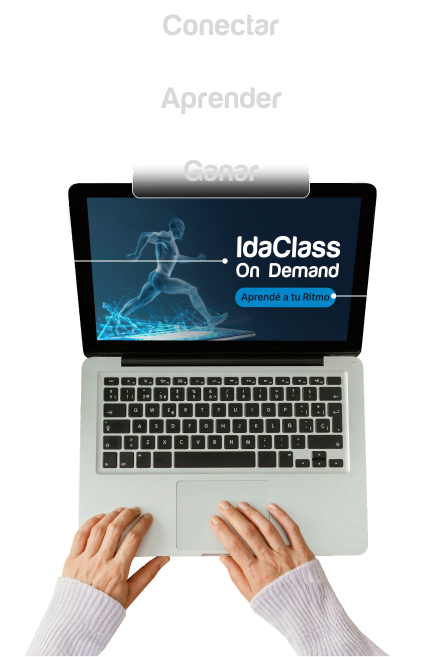
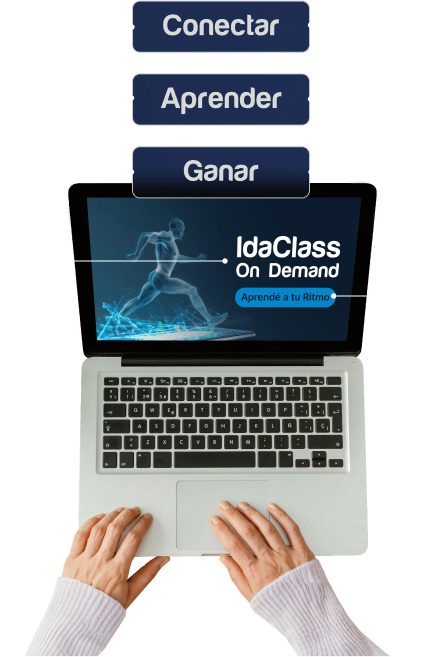
estilos mobile

Changed region(s): [[0.2982, 0.0, 0.7156, 0.3044]]

diff --git a/app/cursos/[nombre]/_components/cursoOnDemandObjetivos.jsx b/app/cursos/[nombre]/_components/cursoOnDemandObjetivos.jsx
@@ -17,7 +17,7 @@ const CursoOnDemandObjetivos = () => {
         <Image
           src={bgMobile}
           fill
-          className="w-full h-full object-cover object-left -z-10 lg:hidden"
+          className="w-full h-full object-cover object-left-top -z-10 lg:hidden"
           alt="background"
         />
         <Image
@@ -25,9 +25,9 @@ const CursoOnDemandObjetivos = () => {
           height={5000}
           width={5000}
           alt=""
-          className="w-full object-contain -translate-y-6 lg:w-[45%]"
+          className="w-full object-contain lg:w-[45%]"
         />
-        <article className="container text-white pb-8 px-4">
+        <article className="container text-white pb-8 px-4 max-lg:mt-24">
           <h3
             className={
               "max-lg:text-left text-3xl font-extrabold text-transparent bg-gradient-to-b from-idaclass3 to-idaclass4 bg-clip-text"
@@ -56,7 +56,7 @@ const CursoOnDemandObjetivos = () => {
               "El egresado del curso de Preparador Físico Deportivo se distingue como un profesional certificado y altamente  capacitado en el ámbito del rendimiento deportivo."
             }
           />
-          <CertificacionCursoOnDemand/>
+          <CertificacionCursoOnDemand />
         </article>
       </div>
     </section>

diff --git a/app/cursos/[nombre]/_components/cursoOnDemandModalidades.jsx b/app/cursos/[nombre]/_components/cursoOnDemandModalidades.jsx
@@ -7,7 +7,7 @@ import Image from "next/image";
 const CursoOnDemandModalidades = () => {
   return (
     <section id="inscripcion" className="pt-6 container px-0 ">
-      <div className="flex max-lg:flex-col justify-center items-center lg:items-stretch lg:justify-start relative bg-gradient-to-l from-[#1D2F57] to-[#12182D]">
+      <div className="flex max-lg:flex-col justify-center items-center lg:items-stretch lg:justify-start relative max-lg:pb-[100%] bg-gradient-to-l from-[#1D2F57] to-[#12182D]">
         <Image
           src={"/cursosOnDemand/cursos/modalidadesbg.png"}
           height={400}
@@ -15,7 +15,15 @@ const CursoOnDemandModalidades = () => {
           alt=""
           className="max-lg:hidden absolute right-0 bottom-0 object-right order-3"
         />
-        <div className={"w-full max-w-md lg:max-w-full  absolute top-4  z-10"}>
+        <Image
+          src={"/cursosOnDemand/cursos/modalidadesbgMobile.png"}
+          fill
+          alt=""
+          className="lg:hidden object-cover object-bottom"
+        />
+        <div
+          className={"w-full max-w-md lg:max-w-full  lg:absolute top-4  z-10"}
+        >
           <TituloSeccion
             className={"text-center text-white text-balance leading-[50px]"}
           >

diff --git a/app/cursos/[nombre]/_components/tarjeta-modalidad.jsx b/app/cursos/[nombre]/_components/tarjeta-modalidad.jsx
@@ -13,9 +13,7 @@ import Image from "next/image";
 const TarjetaModalidad = ({ modalidad }) => {
   return (
     <div
-      className={`relative w-full  lg:w-[440px] flex justify-center pb-14 ${
-        modalidad === "ONLINE" ? "pt-[35rem]" : "pt-[20rem]"
-      } lg:pt-28`}
+      className={`relative w-full  lg:w-[440px] flex justify-center pb-14 lg:pt-28`}
     >
       <Card className="border-none w-full max-w-sm flex flex-col justify-between overflow-hidden rounded-3xl mx-6 ">
         <CardHeader className="py-0 px-0">
